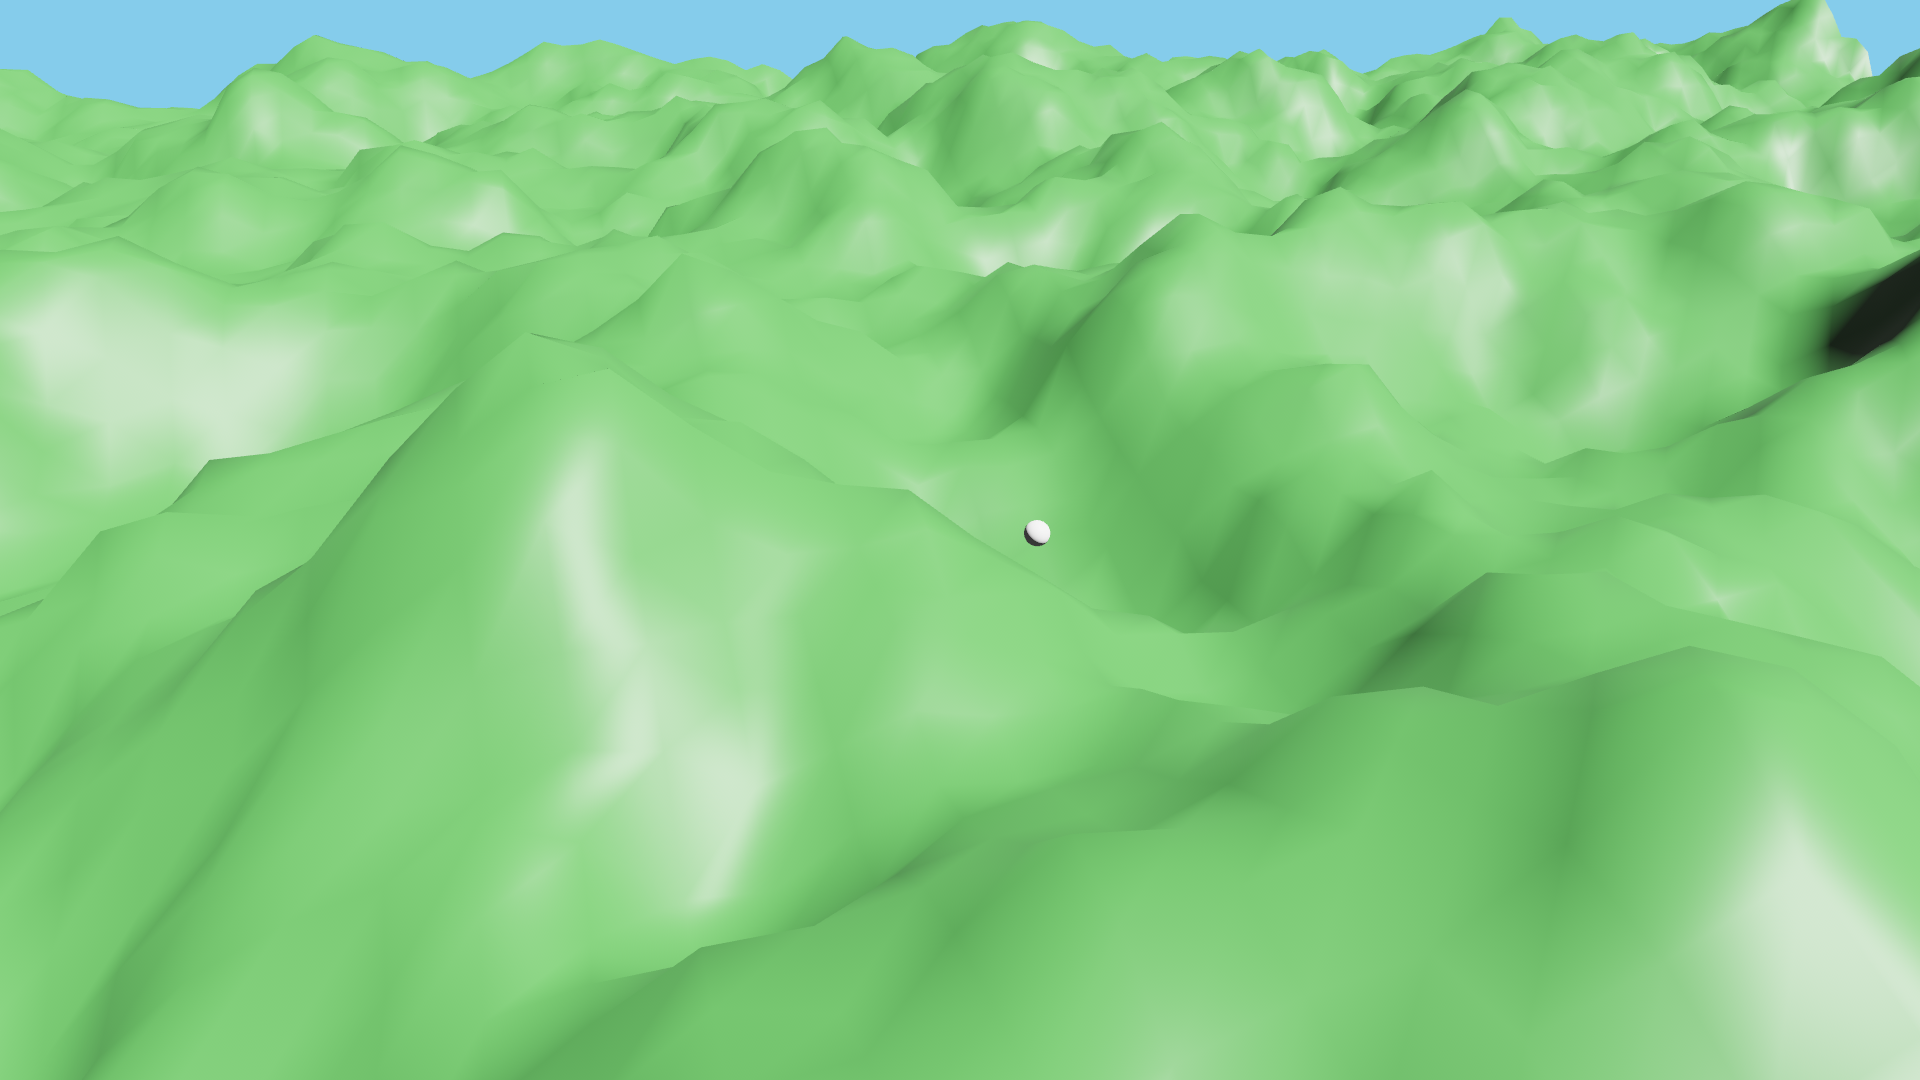
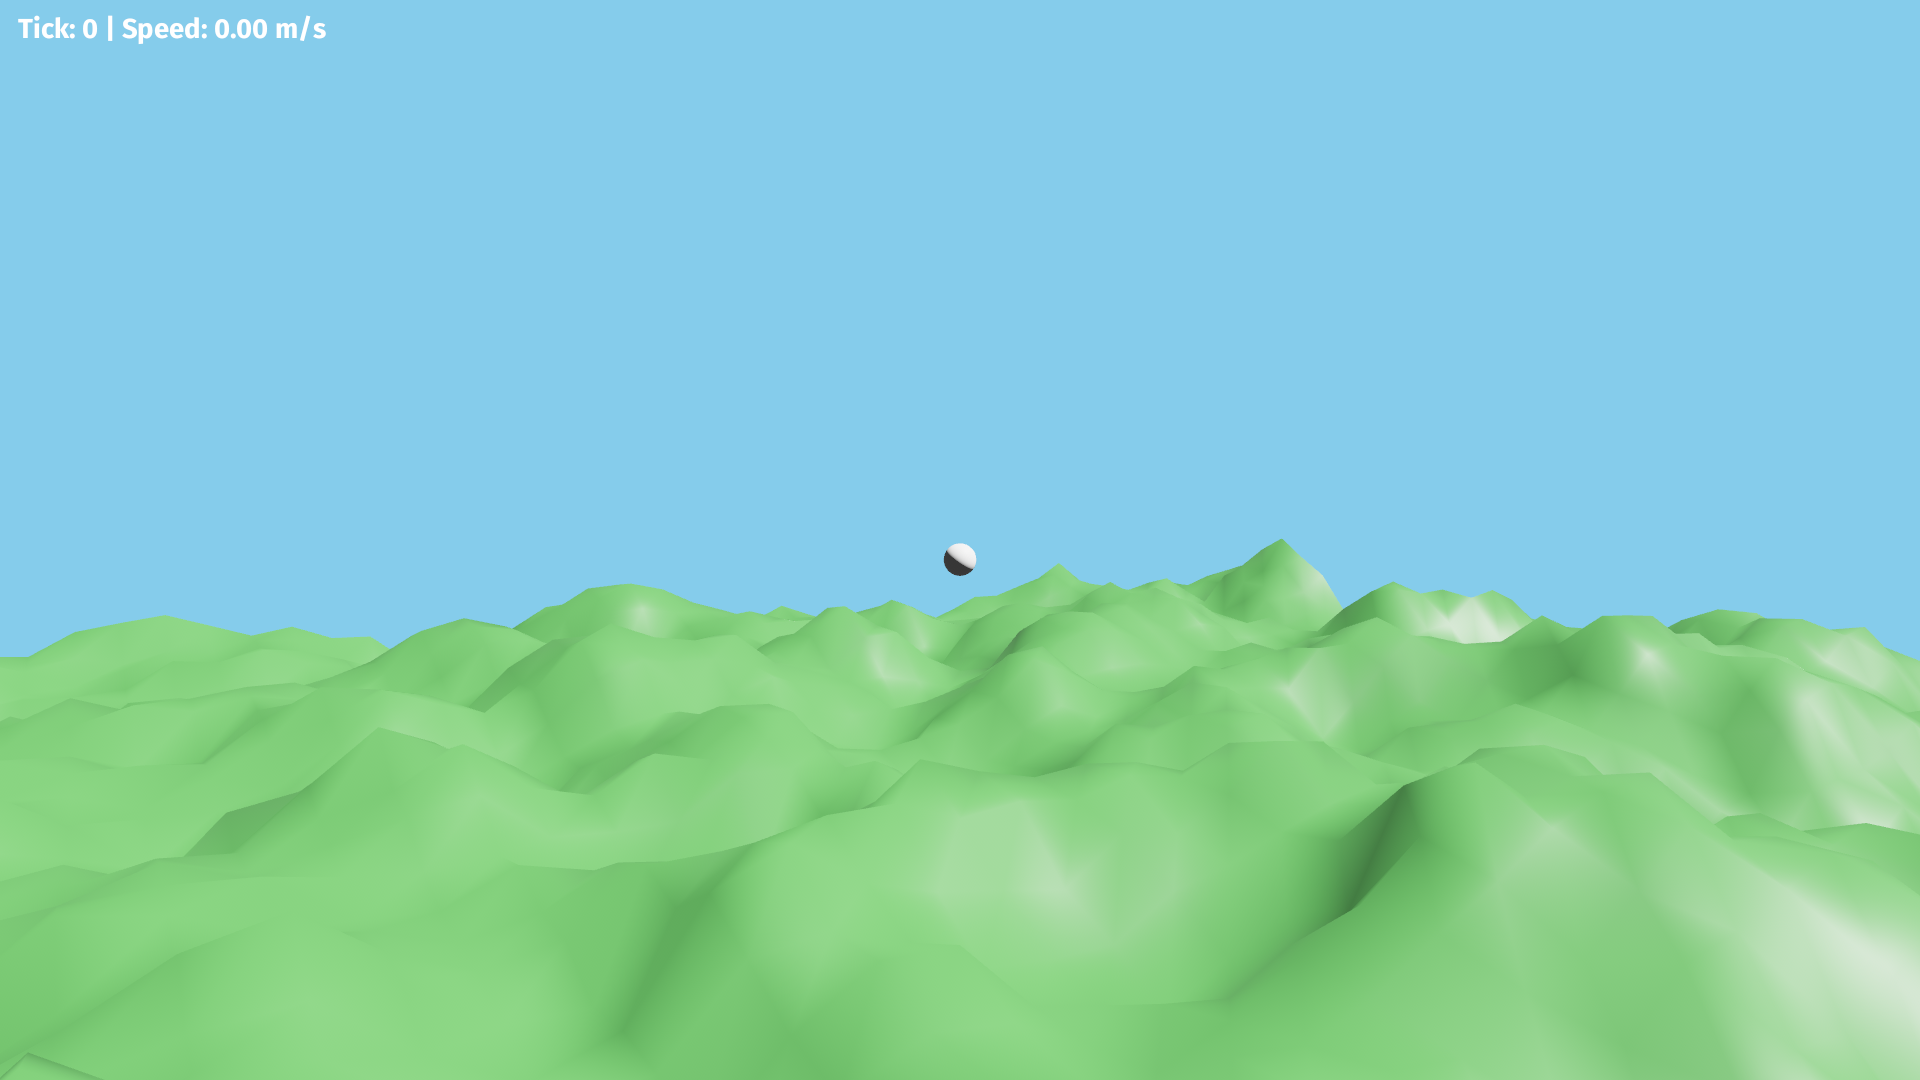
dropping through the landscape

diff --git a/src/plugins/scene.rs b/src/plugins/scene.rs
@@ -41,23 +41,22 @@ fn setup_scene(
         ..default()
     });
 
-    // ball
+    // ball (simple vertical drop)
     let ball_radius = 0.25;
-    let base_h = sampler.height(-5.0, -5.0);
-    let spawn_y = base_h + ball_radius + 0.25;
+    let x = 0.0;
+    let z = 0.0;
+    let ground_h = sampler.height(x, z);
+    let spawn_y = ground_h + ball_radius + 10.0;
     commands
         .spawn(PbrBundle {
             mesh: meshes.add(Mesh::from(Sphere { radius: ball_radius })),
             material: mats.add(Color::srgb(0.95, 0.95, 0.95)),
-            transform: Transform::from_xyz(-5.0, spawn_y, -5.0),
+            transform: Transform::from_xyz(x, spawn_y, z),
             ..default()
         })
         .insert(Ball)
         .insert(RigidBody::Dynamic)
-        .insert(Collider::ball(ball_radius))
-        .insert(Friction { coefficient: 0.6, combine_rule: CoefficientCombineRule::Average })
-        .insert(Restitution::coefficient(0.0))
-        .insert(Damping { linear_damping: 0.20, angular_damping: 0.05 });
+        .insert(Collider::ball(ball_radius));
 
     // target cube
     commands

diff --git a/src/main.rs b/src/main.rs
@@ -37,7 +37,7 @@ fn main() {
         .add_plugins(CoreSimPlugin)      // timing + shared resources
         .add_plugins(TerrainPlugin)      // procedural terrain
         .add_plugins(ScenePlugin)        // world & entities
-        .add_plugins(AutoplayPlugin)     // scripted swings & telemetry
+        // .add_plugins(AutoplayPlugin)     // disabled: no impulses, simple vertical drop test
         .add_plugins(HudPlugin)          // HUD update
         .add_plugins(CameraPlugin)       // camera follow
         .add_plugins(ScreenshotPlugin)   // screenshot capture
